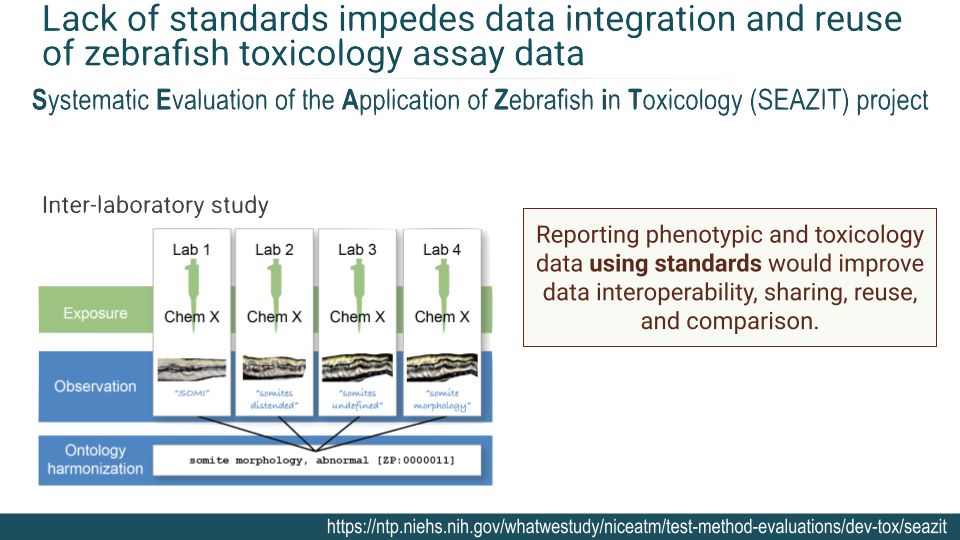
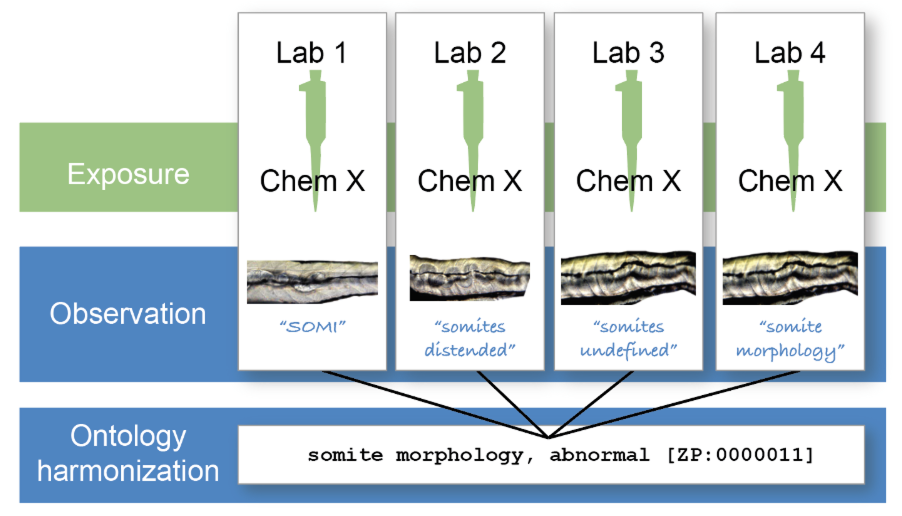
feat: update ontology blog post with new images, captions, and text changes <[email redacted]>

diff --git a/src/styles/global.css b/src/styles/global.css
@@ -185,6 +185,23 @@ section {
     margin-bottom: var(--section-margin-bottom);
 }
 
+figure {
+    margin: var(--space-6) 0;
+    text-align: center;
+}
+
+figure img {
+    max-width: 100%;
+    height: auto;
+}
+
+figcaption {
+    font-size: var(--font-size-ui);
+    color: var(--color-text-dark);
+    margin-top: var(--space-2);
+    font-style: italic;
+}
+
 .section-label {
     display: flex;
     align-items: center;

diff --git a/src/content/blog/what-is-an-ontology-and-why-should-we-care.md b/src/content/blog/what-is-an-ontology-and-why-should-we-care.md
@@ -6,6 +6,8 @@ excerpt: "If you have ever tried to compare results across zebrafish studies, yo
 image: /images/blog/blog-ontology-1.png
 ---
 
+![What Is an Ontology and Why Should We Care](/images/blog/blog-ontology-1.png)
+
 ### The Hidden Problem in Modern Biology
 
 If you have ever tried to compare results across zebrafish studies, you have likely encountered a frustrating issue. One paper reports "reduced swimming," another describes "hypoactivity," and a third refers to "decreased locomotor response." It is not always clear whether these observations are identical, similar, or meaningfully different.
@@ -26,7 +28,10 @@ An ontology typically includes:
 
 This structure allows both researchers and software to understand how concepts fit together.
 
-![A diagram showing how ontology terms are connected in a structured hierarchy](/images/blog/blog-ontology-1.png)
+<figure>
+  <img src="/images/blog/blog-ontology-3.png" alt="Ontology structure linking zebrafish concepts across taxonomy, anatomy, and biological processes" />
+  <figcaption>Ontology structure linking zebrafish concepts across taxonomy, anatomy, and biological processes.</figcaption>
+</figure>
 
 ---
 
@@ -46,13 +51,16 @@ As biology becomes increasingly data-driven, ontologies are becoming essential i
 
 ---
 
-### Why Ontologies Matter for the Zebrafish Community?
+### Why Ontologies Matter for Zebrafish Community
 
 In zebrafish research, ontologies might sound like a technical concept, but they solve a very practical problem: everyone describes things a little differently. One lab might record a behavior as "reduced swimming," while another calls it "hypoactivity." Ontologies provide a **shared, standardized vocabulary with clear definitions, so researchers are essentially speaking the same language**. This makes a big difference when trying to compare results across studies, especially in a field like zebrafish research where experiments often generate large, complex datasets. With consistent terminology, data from different labs can be combined more easily, enabling broader analyses and collaborations.
 
-They also make it much easier to find relevant information. Instead of relying on exact keyword matches, **ontology-based systems can connect related ideas**. So, for example, if you search for "heart defects," an ontology-based system can also surface studies describing related findings such as "cardiac malformations" or "cardiac abnormality," even if those exact words were not used in your original search. Another benefit is reproducibility: when terms are clearly defined and used consistently, it becomes easier for others to **understand exactly what was observed and to replicate the experiment.**
+<figure>
+  <img src="/images/blog/blog-ontology-2.png" alt="Different labs often use different terms for the same concept" />
+  <figcaption>Different labs often use different terms for the same concept. Ontologies provide a shared, standardized vocabulary with clear definitions, reducing ambiguity and enabling comparison across studies.</figcaption>
+</figure>
 
-![An illustration of how ontology-based search connects related zebrafish phenotype terms](/images/blog/blog-ontology-2.png)
+They also make it much easier to find relevant information. Instead of relying on exact keyword matches, **ontology-based systems can connect related ideas**. So, for example, if you search for "heart defects", an ontology-based system can also surface studies describing related findings such as "cardiac malformations" or "cardiac abnormality", even if those exact words were not used in your original search. Another benefit is reproducibility: when terms are clearly defined and used consistently, it becomes easier for others to **understand exactly what was observed and compared to and to replicate the experiment.**
 
 Ontologies also open the door to modern computational approaches, such as machine learning and artificial intelligence. These methods rely on data that is not only digital, but structured and consistently defined so that computers can interpret it correctly. Ontologies provide this foundation by organizing information into clearly defined concepts and relationships, making datasets **machine-readable and interoperable**. As a result, researchers can apply advanced analytical tools to automatically detect patterns, compare results across large datasets, and even generate new hypotheses. In zebrafish research, this means being able to extract deeper insights from complex phenotypic and behavioral data, ultimately accelerating discovery and improving the predictive power of scientific studies.
 